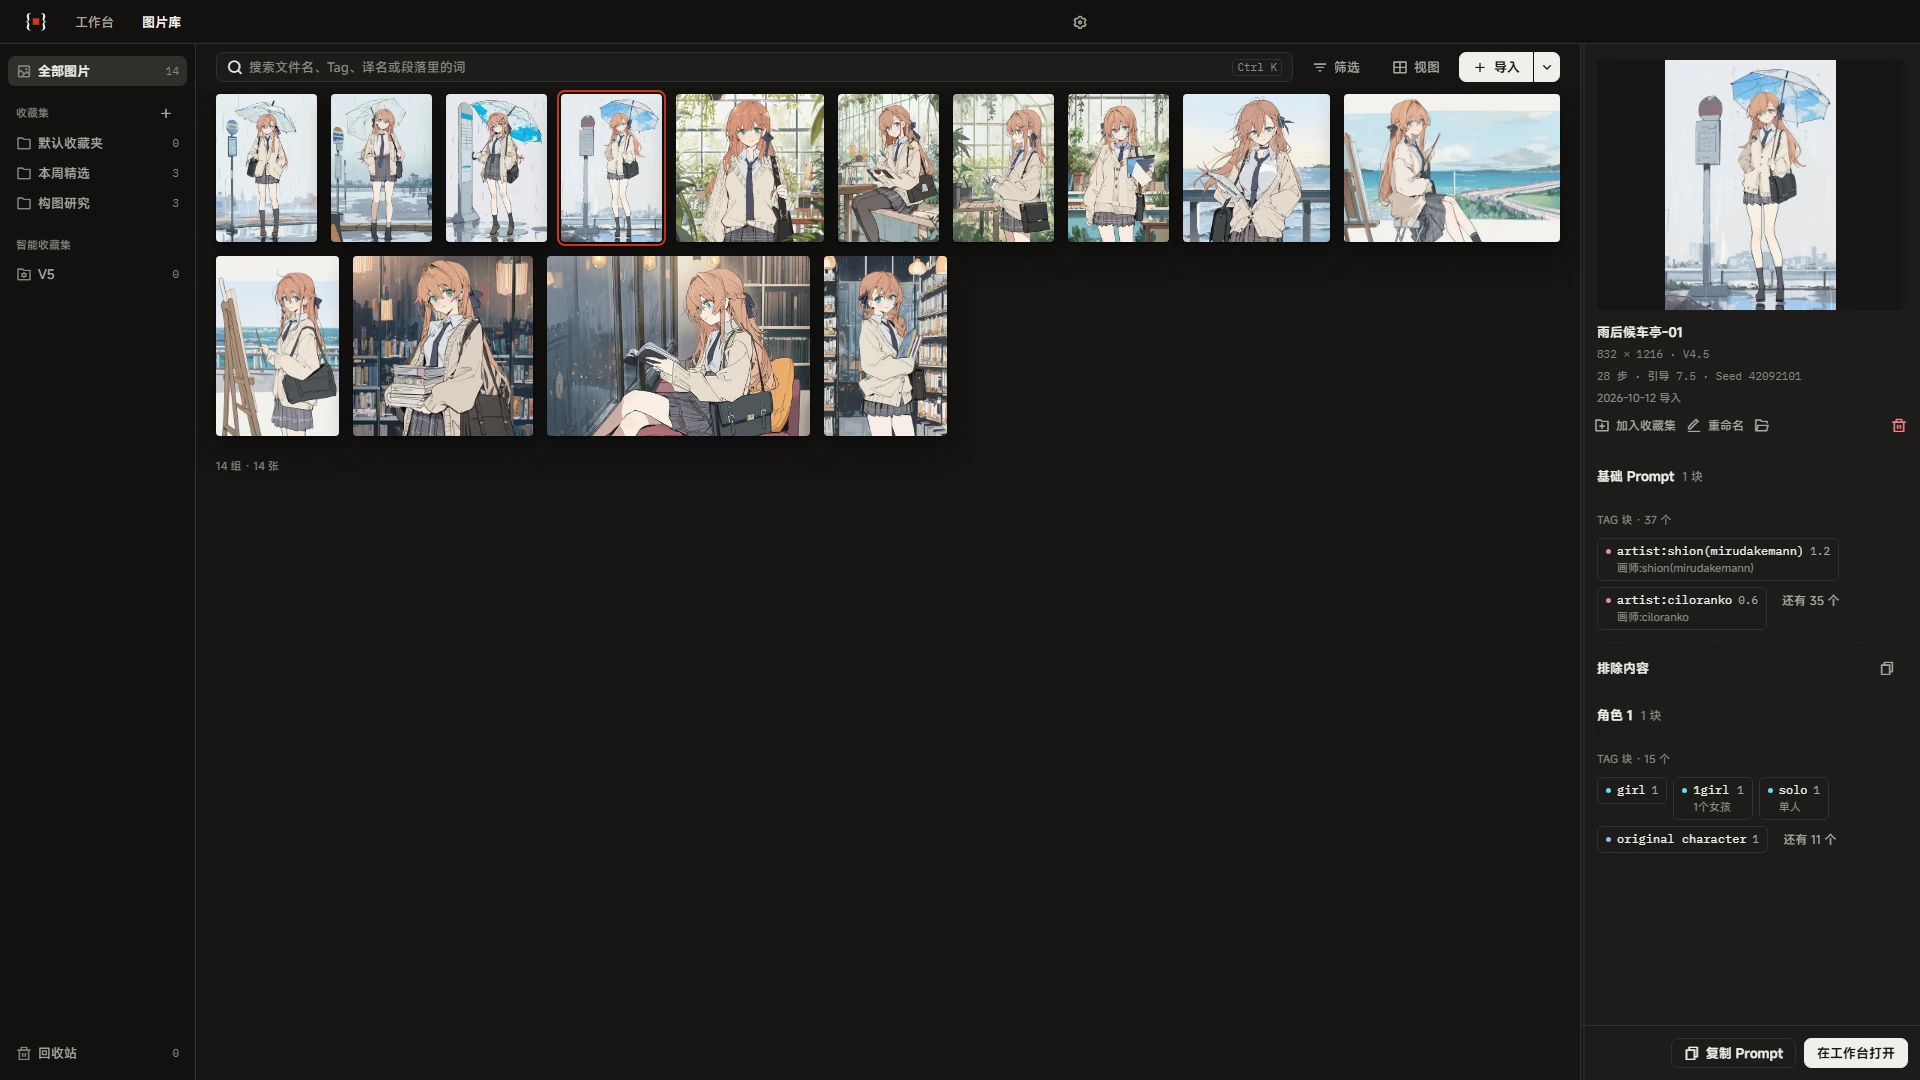
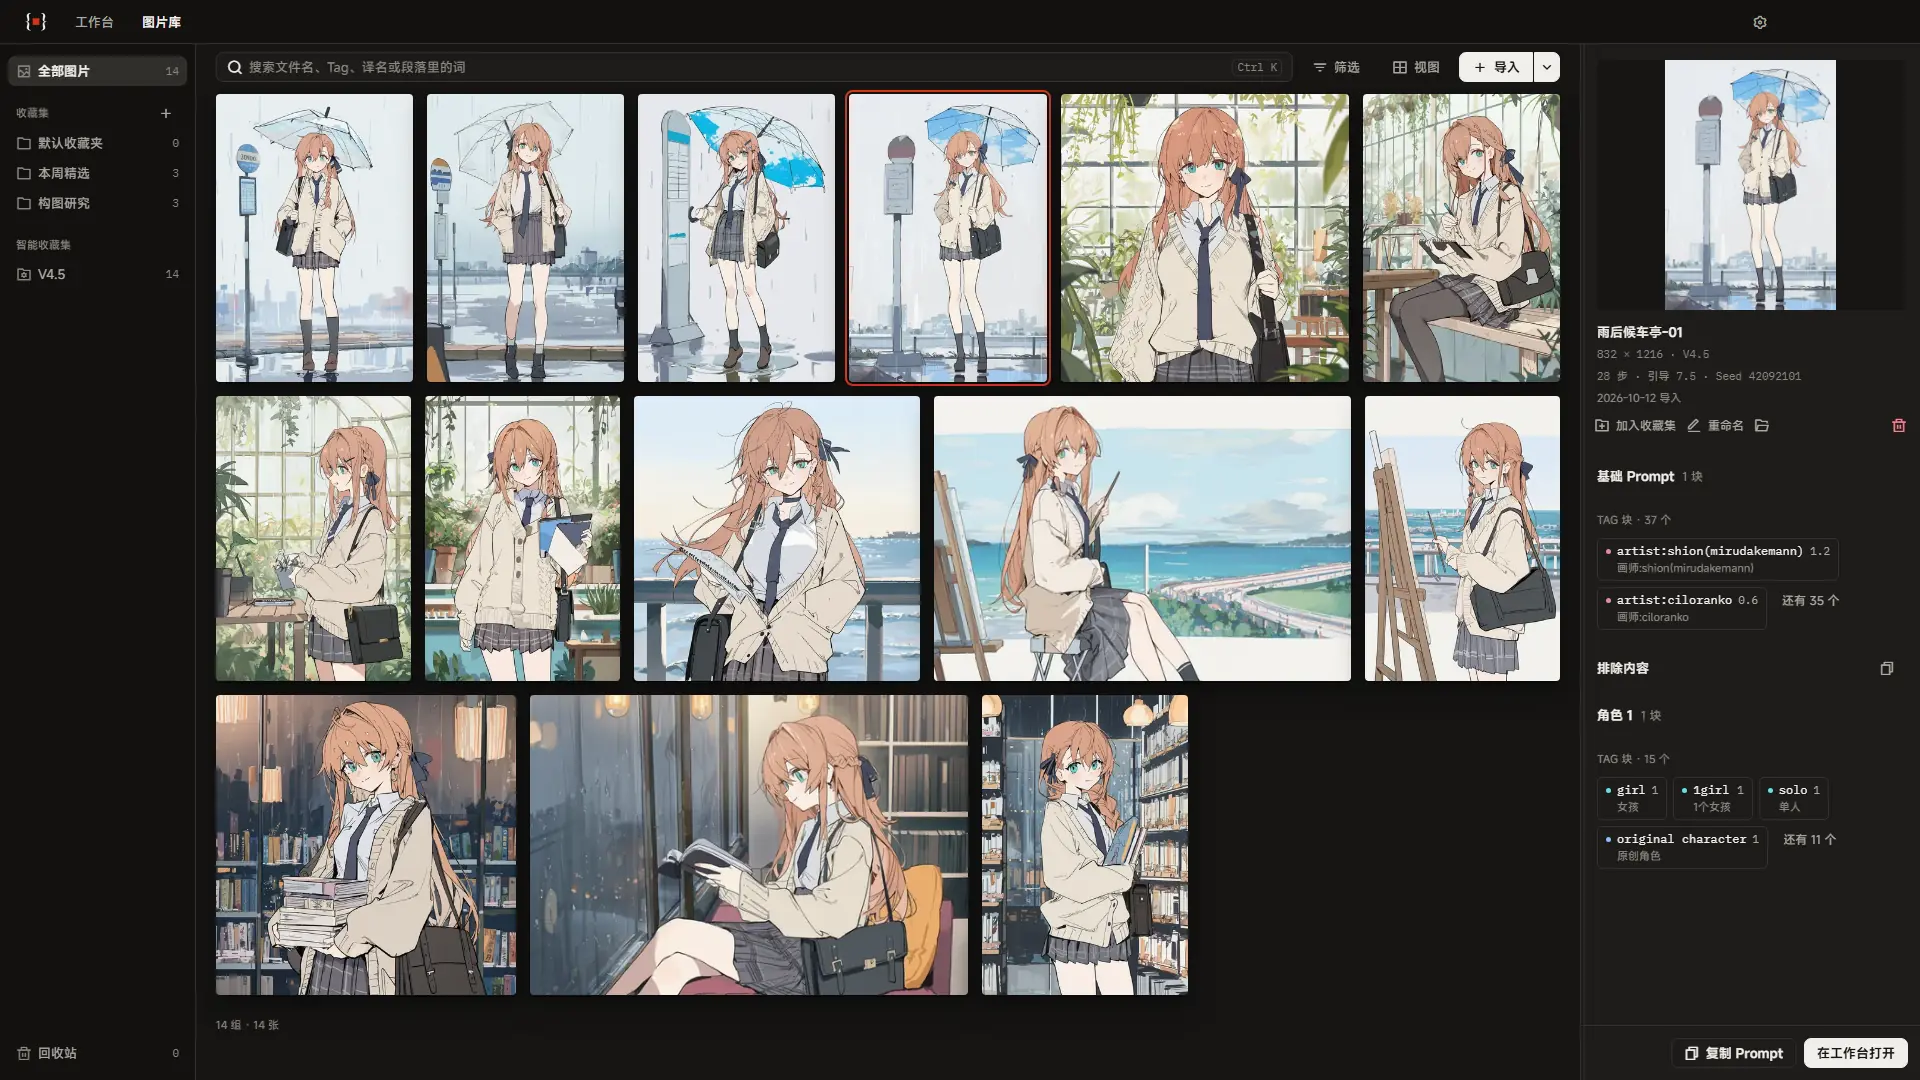
[工程] 调整截图场景并重拍四张README图片

diff --git a/electron/readmeScreenshots.js b/electron/readmeScreenshots.js
@@ -3,11 +3,137 @@ import path from 'node:path';
 import { net, session } from 'electron';
 import { importLibraryFiles } from './importer.js';
 import { harness } from './acceptance/harness.js';
+import { WORKBENCH_SOURCE_PANEL_WIDTH_KEY } from '../src/lib/panelLayout.js';
 
 const paragraph =
   'A vertical full illustration of a girl waiting at a bus shelter just after the rain. She stands slightly right of centre, the transparent umbrella tilted toward the viewer, while the wet pavement mirrors the pale sky.';
 const translation =
   '竖幅全身插画：雨刚停，女孩在候车亭下等车。她站在画面中间偏右，透明的伞朝观者倾斜，湿漉漉的路面映着淡色的天空。';
+
+// Curated edits belong only to the disposable screenshot profile.
+const dictionaryEdits = `
+actively painting the coastline on canvas|正在画布上描绘海岸线|Action
+adult woman|成年女性|Subject
+afternoon sunlight|午后阳光|Environment
+artist collaboration|画师合作|ArtistEra
+artists:ningen mame|画师:ningen mame|ArtistEra
+back three-quarter view|背面四分之三视角|Composition
+bad quality|低画质|StyleQuality
+best quality|最佳画质|StyleQuality
+black leather shoulder bag|黑色皮革单肩包|Clothing
+books with unmarked spines|书脊无字的书本|Environment
+botanical garden|植物园|Environment
+calm atmosphere|平静氛围|Environment
+carrying a stack of books|抱着一摞书|Action
+charcoal gray plaid pleated skirt|炭灰色格纹百褶裙|Clothing
+cinematic composition|电影感构图|Composition
+clear morning light|明净的晨光|Environment
+close-up at a seaside promenade|海滨步道上的特写|Composition
+close-up portrait|肖像特写|Composition
+cozy independent bookstore at night|夜晚温馨的独立书店|Environment
+cropped face|面部被裁切|Composition
+dark shelves behind|身后的暗色书架|Environment
+detailed background|细致的背景|Environment
+detailed glass greenhouse|细致的玻璃温室|Environment
+detailed ocean horizon and seaside promenade|细致的海平线与海滨步道|Environment
+detailed seaside promenade and ocean horizon background|细致的海滨步道与海平线背景|Environment
+drawing in sketchbook|在速写本上绘画|Action
+duplicate|重复内容|StyleQuality
+duplicate person|重复人物|Subject
+extra characters|多余角色|Subject
+extra fingers|多余手指|Body
+extra limbs|多余肢体|Body
+floating dust|漂浮的尘埃|Environment
+frame|画框|Composition
+full body side view|全身侧视图|Composition
+full-bleed composition|满版构图|Composition
+gentle confident smile|温柔自信的微笑|Action
+girl|女孩|Subject
+hanging leaves|垂落的叶片|Environment
+holding a paintbrush|手持画笔|Action
+holding an open sketchbook|拿着展开的速写本|Action
+holding two books|拿着两本书|Action
+jpeg artifacts|JPEG 压缩伪影|StyleQuality
+konya karasue|画师:konya karasue|ArtistEra
+leaves in foreground|前景中的叶片|Environment
+letterbox|上下黑边|Composition
+light beige oversized knit cardigan|浅米色宽松针织开衫|Clothing
+long copper hair|铜色长发|Body
+lowres|低分辨率|StyleQuality
+lush plants|茂盛的植物|Environment
+malformed limbs|畸形肢体|Body
+masterpiece|杰作|StyleQuality
+medium shot|中景|Composition
+missing fingers|缺失手指|Body
+morning light|晨光|Environment
+muted blue and warm cream palette|柔和蓝色与暖奶油色配色|StyleQuality
+narrow navy necktie|藏青色窄领带|Clothing
+natural shadows|自然阴影|Environment
+natural smile|自然的微笑|Action
+navy and amber palette|藏青色与琥珀色配色|StyleQuality
+navy ribbon hair ornament|藏青色缎带发饰|Clothing
+no text|无文字|StyleQuality
+nsfw|成人内容|StyleQuality
+ocean and railing softly blurred behind|身后柔和虚化的海洋与栏杆|Environment
+only one girl seated on a folding stool at a wooden easel on the left|仅一名女孩坐在左侧木画架前的折叠凳上|Subject
+only one girl standing directly behind a wooden easel|仅一名女孩站在木画架正后方|Subject
+open sketchbook|展开的速写本|Environment
+original character|原创角色|Identity
+overcast sky|阴天的天空|Environment
+pale blue sky|淡蓝色天空|Environment
+pale color|淡色|StyleQuality
+peaceful creative workspace|安静的创作空间|Environment
+quiet atmosphere|安静氛围|Environment
+quiet city bus stop|安静的城市公交站|Environment
+quiet creative mood|宁静的创作氛围|Environment
+rain on window|窗上的雨滴|Environment
+rainy day|雨天|Environment
+reading an open book|阅读摊开的书|Action
+reflections on glass|玻璃上的倒影|Environment
+relaxed pose|放松的姿势|Action
+rella|画师:rella|ArtistEra
+scan artifacts|扫描伪影|StyleQuality
+screentone|网点纸效果|StyleQuality
+sea breeze|海风|Environment
+second person|第二个人|Subject
+self portrait|自画像|Composition
+shallow depth of field|浅景深|Composition
+side view|侧视图|Composition
+signature|签名|StyleQuality
+sitting on a cushioned window seat beside the rainy window|坐在雨窗旁带软垫的窗边座位上|Action
+sitting on a wooden bench|坐在木长椅上|Action
+soft diffused light|柔和的漫射光|Environment
+soft green and amber palette|柔和绿色与琥珀色配色|StyleQuality
+soft morning light|柔和晨光|Environment
+soft reflections|柔和的倒影|Environment
+soft rim light|柔和轮廓光|Composition
+standing beside the potting table|站在园艺工作台旁|Action
+standing in a narrow aisle|站在狭窄过道中|Action
+sunbeams through glass|穿过玻璃的阳光|Environment
+tall bookshelves|高大的书架|Environment
+teal eyes|蓝绿色眼睛|Body
+text|文字|StyleQuality
+three-quarter view|四分之三视角|Composition
+transparent umbrella|透明雨伞|Environment
+very aesthetic|极具美感|StyleQuality
+very displeasing|非常不美观|StyleQuality
+warm light on face|照在脸上的暖光|Environment
+warm tungsten lamps|暖色钨丝灯|Environment
+watering small flowers|给小花浇水|Action
+wet pavement|湿漉漉的路面|Environment
+white pointed-collar shirt|白色尖领衬衫|Clothing
+wide coastal landscape|开阔的海岸风景|Composition
+windblown hair|被风吹起的头发|Body
+wooden potting table|木制园艺工作台|Environment
+worst quality|最差画质|StyleQuality
+year2025|2025 年|ArtistEra
+`
+  .trim()
+  .split('\n')
+  .map((line) => {
+    const [tag, translation, category] = line.split('|');
+    return { tag, translation, category };
+  });
 
 export async function runReadmeScreenshots({
   mode,
@@ -53,6 +179,7 @@ export async function runReadmeScreenshots({
     if (window) window.destroy();
     preferences.saveAppearanceSettings({ themeMode: theme, motion: 'off' });
     window = createWindow({ ...state, name: state.page, theme, animationsDisabled: true });
+    window.setContentSize(1920, 1080);
     window.webContents.debugger.attach('1.3');
     const loaded = new Promise((resolve, reject) => {
       window.webContents.once('did-finish-load', resolve);
@@ -60,21 +187,30 @@ export async function runReadmeScreenshots({
         reject(Error(`Load failed: ${code}`)),
       );
     });
-    await Promise.all([
-      loaded,
-      window.webContents.debugger.sendCommand('Emulation.setDeviceMetricsOverride', {
-        width: 1920,
-        height: 1080,
-        deviceScaleFactor: 1,
-        mobile: false,
-      }),
-    ]);
+    await loaded;
     h = harness(window, { ...mode, output, screenshots: [], phase: 'readme' }, checks);
     await h.wait(
       `document.documentElement.dataset.screenshotReady===${JSON.stringify(state.page)}`,
     );
     await h.wait(`document.documentElement.dataset.theme===${JSON.stringify(theme)}`);
     await h.evaluate('document.fonts.ready.then(()=>true)');
+    const bounds = await h.evaluate(
+      `(()=>{const r=document.querySelector('[aria-label=设置]').getBoundingClientRect();return {width:innerWidth,height:innerHeight,gearX:r.x,gearRight:r.right};})()`,
+    );
+    if (
+      window.getContentSize()[0] !== 1920 ||
+      window.getContentSize()[1] !== 1080 ||
+      bounds.width !== 1920 ||
+      bounds.height !== 1080 ||
+      bounds.gearX < 1700
+    )
+      throw Error('Real window size or titlebar position is incorrect: ' + JSON.stringify(bounds));
+    checks.push({
+      label: state.page + ' real window and titlebar',
+      status: 'passed',
+      bounds,
+      contentSize: window.getContentSize(),
+    });
   };
   const capture = async (name) => {
     await h.evaluate('document.activeElement?.blur()');
@@ -90,6 +226,19 @@ export async function runReadmeScreenshots({
       undefined,
       'once',
     );
+    await h.check(
+      `${name} 可见 Tag 和词典行都有译文`,
+      `(()=>{const visible=e=>{let r=e.getBoundingClientRect();let top=Math.max(0,r.top),bottom=Math.min(innerHeight,r.bottom);for(let p=e.parentElement;p;p=p.parentElement){if(/auto|scroll|hidden/.test(getComputedStyle(p).overflowY)){const b=p.getBoundingClientRect();top=Math.max(top,b.top);bottom=Math.min(bottom,b.bottom);}}return r.width>0&&bottom>top;};return [...document.querySelectorAll('.nps-tag-text')].filter(visible).every(e=>e.querySelector('.nps-tag-zh')?.textContent.trim()) && [...document.querySelectorAll('.settings-table tbody tr')].filter(visible).every(e=>!e.textContent.includes('点击填写'));})()`,
+      undefined,
+      'once',
+    );
+    if (name === 'hero' || name === 'workbench')
+      await h.check(
+        `${name} Prompt 栏宽度为 700 像素`,
+        `document.querySelector('[aria-label="Prompt 栏宽度"]').parentElement.getBoundingClientRect().width===700`,
+        undefined,
+        'once',
+      );
     const { data } = await window.webContents.debugger.sendCommand('Page.captureScreenshot', {
       format: 'png',
       captureBeyondViewport: false,
@@ -123,10 +272,10 @@ export async function runReadmeScreenshots({
       );
     }
     database.createCollection({
-      id: 'v5',
-      name: 'V5',
+      id: 'v45',
+      name: 'V4.5',
       kind: 'smart',
-      filters: { models: ['NovelAI Diffusion V5'] },
+      filters: { models: [current.metadata.model] },
     });
     const state = {
       page: 'workbench',
@@ -153,6 +302,11 @@ export async function runReadmeScreenshots({
     ];
     const annotated = await h.evaluate(`window.studio.translateTags(${JSON.stringify(tags)})`);
     if (!annotated.ok) throw Error(annotated.error);
+    for (const { tag, translation, category } of dictionaryEdits)
+      database.updateTagDictionary(tag, { translation, category });
+    await h.evaluate(
+      `localStorage.setItem(${JSON.stringify(WORKBENCH_SOURCE_PANEL_WIDTH_KEY)}, '700')`,
+    );
     await open(state, 'light');
     await h.click('显示');
     await h.select('语言', '对照');
@@ -201,6 +355,7 @@ export async function runReadmeScreenshots({
     await capture('workbench');
     await open({ page: 'gallery', selectedProjectId: current.id }, 'dark');
     await h.click('视图', 'document.querySelector(".library-page")');
+    await h.input('[aria-label=图片行高]', '300');
     await h.click('不合并');
     await h.key('Escape');
     await h.wait(
@@ -208,13 +363,25 @@ export async function runReadmeScreenshots({
     );
     await h.check(
       '深色全部图片显示 14 张演示图及三个收藏集',
-      `document.querySelectorAll('.library-card').length===14 && ['本周精选','构图研究','V5'].every(t=>document.querySelector('.library-side').textContent.includes(t))`,
+      `document.querySelectorAll('.library-card').length===14 && ['本周精选','构图研究','V4.5'].every(t=>document.querySelector('.library-side').textContent.includes(t))`,
+      undefined,
+      'once',
+    );
+    await h.check(
+      '图库展示三到四行且 V4.5 收藏集有 14 张图',
+      `(()=>{const cards=[...document.querySelectorAll('.library-card')];const rows=new Set(cards.map(e=>Math.round(e.getBoundingClientRect().top)));return rows.size>=3 && rows.size<=4 && Math.max(...cards.map(e=>e.getBoundingClientRect().bottom))>950 && [...document.querySelectorAll('.library-side button')].some(e=>e.textContent.includes('V4.5')&&e.textContent.includes('14'));})()`,
       undefined,
       'once',
     );
     await capture('library');
     await open({ page: 'settings', section: 'tags' }, 'light');
     await h.wait('document.querySelectorAll(".settings-usage button").length>0');
+    await h.check(
+      '词典仅剩两条未翻译和未分类，已有用户修改',
+      `(()=>{const tabs=[...document.querySelectorAll('.settings-dictionary-views [role=tab]')];return ['没有译文','未分类'].every(label=>tabs.find(e=>e.textContent.startsWith(label))?.querySelector('span').textContent==='2') && Number(tabs.find(e=>e.textContent.startsWith('你改过的'))?.querySelector('span').textContent)>0;})()`,
+      undefined,
+      'once',
+    );
     await h.check(
       '词典默认全部按图片数降序且没有选中或编辑行',
       `(()=>{const counts=[...document.querySelectorAll('.settings-usage button')].map(n=>Number(n.textContent));return counts.length>2 && counts[0]>0 && counts.every((n,i)=>!i||n<=counts[i-1]) && document.querySelector('[role=tab][aria-selected=true]').textContent.startsWith('全部') && !document.querySelector('tr input:not([type=checkbox]),tr [aria-checked=true]')})()`,
@@ -233,7 +400,7 @@ export async function runReadmeScreenshots({
   } finally {
     await fs.writeFile(
       path.join(output, 'manifest.json'),
-      JSON.stringify({ screenshots, checks, network, addedTranslations: [] }, null, 2),
+      JSON.stringify({ screenshots, checks, network, addedTranslations: dictionaryEdits }, null, 2),
     );
     window?.destroy();
     net.fetch = originalFetch;
